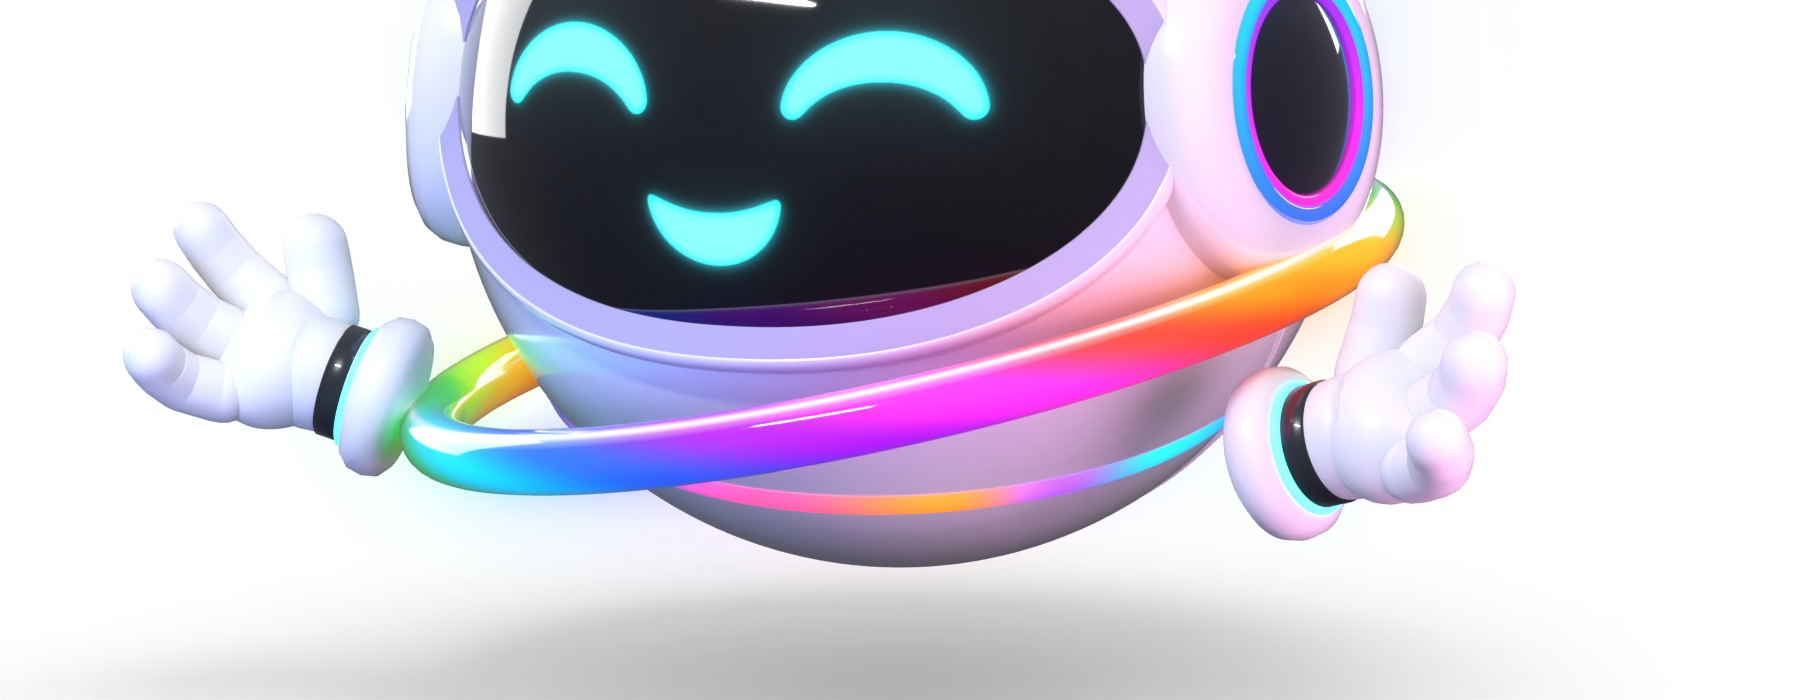
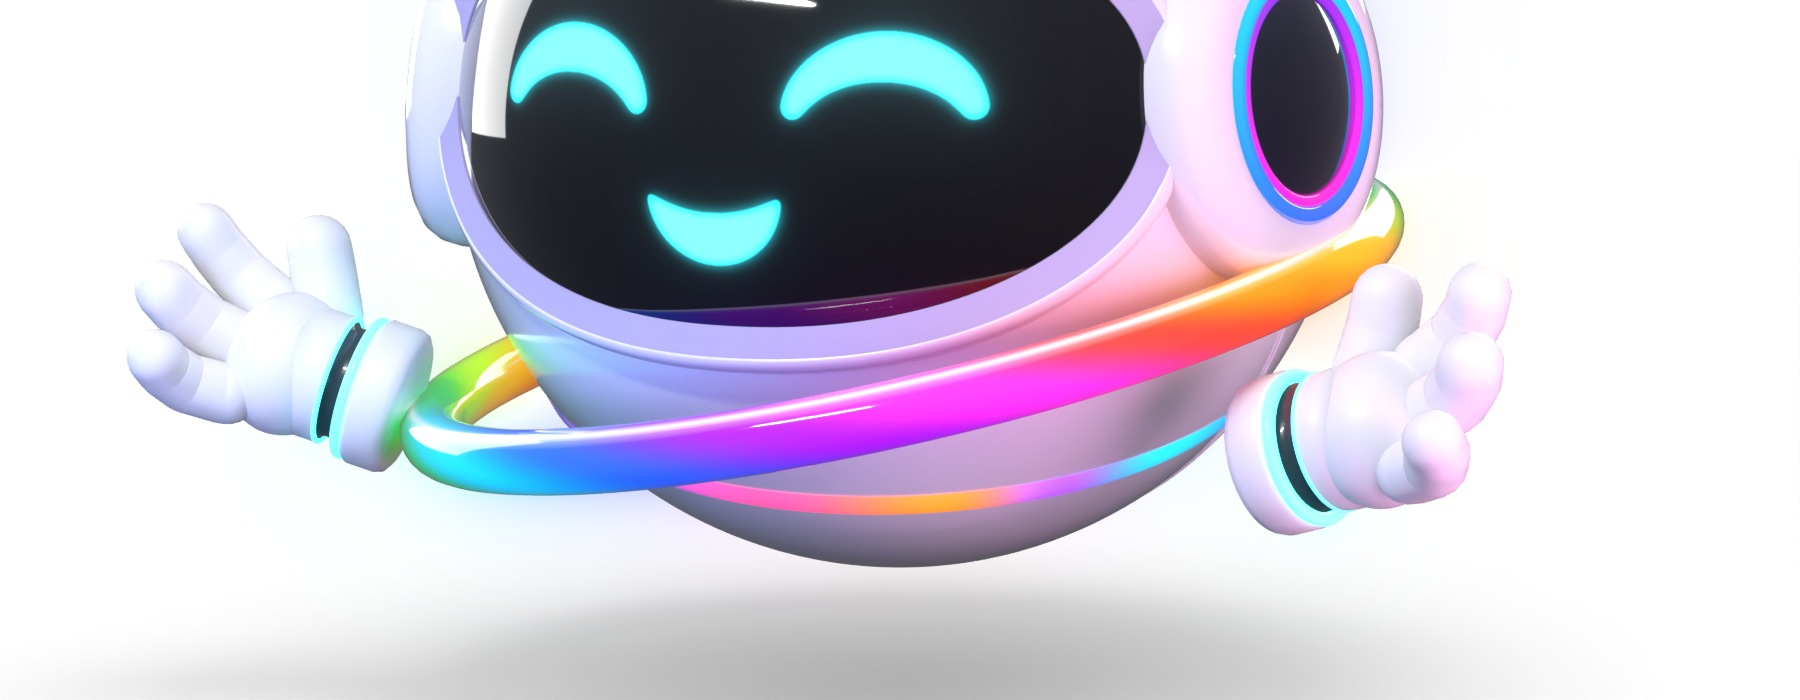
Character version 3: straight-fit cuffs, the glove, black band and cuff at one width
Claude-Session: https://claude.ai/code/session_011BdSE2fEeiEv9ZgoYmWAPn

Changed region(s): [[0.6844, 0.51, 0.7778, 0.78], [0.1244, 0.33, 0.2489, 0.69]]

diff --git a/design/hero/character/v3/build.py b/design/hero/character/v3/build.py
@@ -320,7 +320,7 @@ def finger_path(base, d0, axis, lengths, curls, steps=10):
 def hand(name, pose, th, pos, F, N, scale=1.0):
     P = POSES[pose]; e = bpy.data.objects.new(name, None); col.objects.link(e); e.parent = root
     e.matrix_basis = Matrix.Translation(pos) @ frame_from(F, N).to_4x4() @ Matrix.Scale(scale, 4)
-    parts = [superellipsoid(name + 'Palm', 0.13, 0.1, 0.11, 1.0, 1.0, M_glove, parent=e, taper=0.22)]   # a soft, puffy palm
+    parts = [superellipsoid(name + 'Palm', 0.13, 0.116, 0.11, 1.0, 1.0, M_glove, parent=e)]   # a soft, puffy palm, as wide at the wrist as the cuff
     for k, (x, r, lens, spr) in enumerate(FING):
         sp = math.radians(spr * P['spread'] * (1 if th > 0 else -1)); d0 = Vector((math.sin(sp), 0, math.cos(sp)))
         axis = d0.cross(Vector((0, -1, 0))).normalized(); base = Vector((th * x, -0.006, 0.072))
@@ -328,10 +328,11 @@ def hand(name, pose, th, pos, F, N, scale=1.0):
     (tx, ty, tz), tc = P['thumb']; d0 = Vector((th * tx, ty, tz)).normalized(); base = Vector((th * 0.105, -0.015, -0.03))
     axis = d0.cross(Vector((-th * 0.35, -1, 0.1))).normalized()
     parts.append(tube(name + 'Thumb', finger_path(base, d0, axis, (0.07, 0.055), tc), lambda t: 0.06 * (1 - 0.06 * t), M_glove, n=18, parent=e))
-    parts.append(lathe(name + 'Wrist', [(0.0, -0.02), (0.1, -0.02), (0.1, -0.06), (0.097, -0.085), (0.095, -0.092)], M_glove, parent=e, n=64))   # short and full width
-    parts.append(lathe(name + 'Band', [(0.094, -0.088), (0.1, -0.093), (0.1, -0.137), (0.094, -0.141)], M_band, parent=e, n=64))   # the black band
-    parts.append(torus(name + 'CuffLight', 0.1, 0.01, M_cyan, center=(0, 0, -0.141), n=72, m=10, parent=e))
-    parts.append(lathe(name + 'Cuff', [(0.0, -0.142), (0.1, -0.142), (0.122, -0.148), (0.138, -0.165), (0.142, -0.19), (0.136, -0.214), (0.118, -0.228), (0.095, -0.233), (0.0, -0.234)], M_glove, parent=e, n=64))   # a big, puffy cuff
+    parts.append(lathe(name + 'Wrist', [(0.0, -0.02), (0.114, -0.02), (0.114, -0.088), (0.112, -0.092)], M_glove, parent=e, n=64))   # straight, full width: no neck
+    parts.append(lathe(name + 'Band', [(0.112, -0.088), (0.1, -0.094), (0.098, -0.112), (0.1, -0.13), (0.114, -0.136)], M_band, parent=e, n=64))   # the black band: a dark gap, the same width outside
+    parts.append(torus(name + 'CuffLight', 0.117, 0.011, M_cyan, center=(0, 0, -0.134), n=72, m=10, parent=e))   # a bright cyan ring on the cuff's edge
+    parts.append(torus(name + 'CuffLight2', 0.111, 0.0045, M_cyan, center=(0, 0, -0.09), n=72, m=8, parent=e))   # and a thin one on the glove's edge
+    parts.append(lathe(name + 'Cuff', [(0.0, -0.137), (0.112, -0.137), (0.124, -0.141), (0.13, -0.152), (0.13, -0.2), (0.125, -0.214), (0.112, -0.222), (0.08, -0.226), (0.0, -0.227)], M_glove, parent=e, n=64))   # the white cuff: straight sides, rounded end
     HANDS[name] = [e] + parts
     return e
 
@@ -342,7 +343,7 @@ def show_hands(names):
 def side_hand(name, s, cuff=(1.0, -0.45, -0.64), pose='open', F=None, N=None, scale=1.3):
     """A hand at the character's side (s = -1 its right, +1 its left), given by where its cuff ends."""
     F = Vector(F or (s * 0.92, -0.22, 0.3)).normalized(); N = N or ((0.15, -0.72, 0.68) if s > 0 else (0.42, -0.65, 0.64))   # palm up and tilted to the viewer, fingers out to the side
-    return hand(name, pose, -s, Vector((s * cuff[0], cuff[1], cuff[2])) + F * 0.234 * scale, F, N, scale)
+    return hand(name, pose, -s, Vector((s * cuff[0], cuff[1], cuff[2])) + F * 0.227 * scale, F, N, scale)
 
 side_hand('TurnR', -1); side_hand('TurnL', 1)
 

diff --git a/design/hero/character/v3/final.py b/design/hero/character/v3/final.py
@@ -49,6 +49,7 @@ next(n for n in bpy.data.materials['ring'].node_tree.nodes if n.bl_idname == 'Sh
 for nm in ('LowSeam', 'HeadStripe'): bpy.data.objects[nm].visible_glossy = False   # no smeary reflections of the lights on the body or visor
 for o in bpy.data.objects:                                       # the gloves are not mirrored in the visor (no white smudge on the glass)
     if o.name.startswith(('Turn', 'Think', 'Idea', 'Cool', 'Wink', 'Surp', 'Hero')): o.visible_glossy = False
+setp('cuffLight', Emission_Strength=5.5)
 # ---------------------------------------------------------------- a floor that only catches the shadow
 FLOOR = -1.3
 bpy.ops.mesh.primitive_plane_add(size=30, location=(0, 0, FLOOR)); catcher = bpy.context.object; catcher.name = 'ShadowCatcher'; catcher.is_shadow_catcher = True
